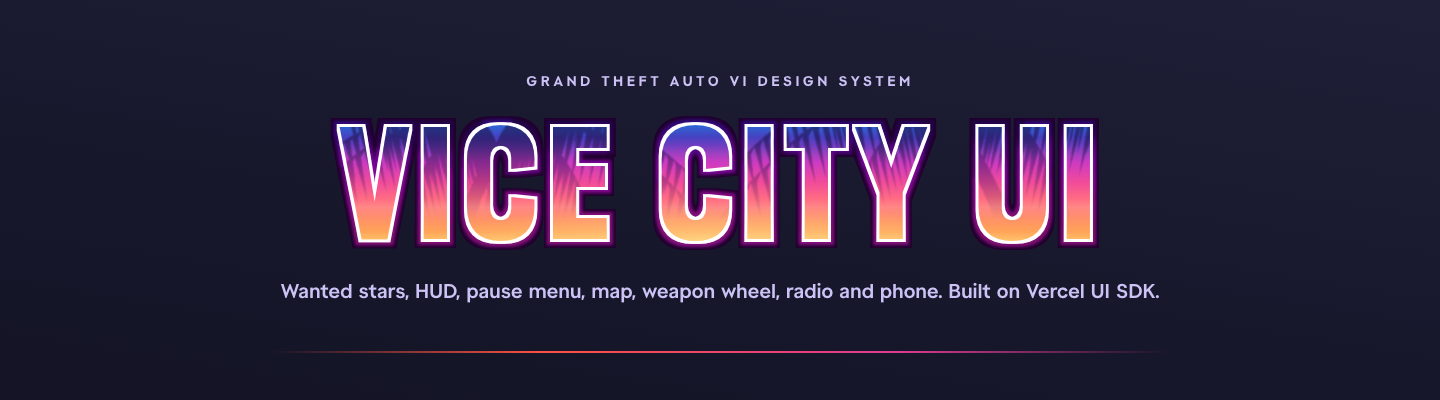
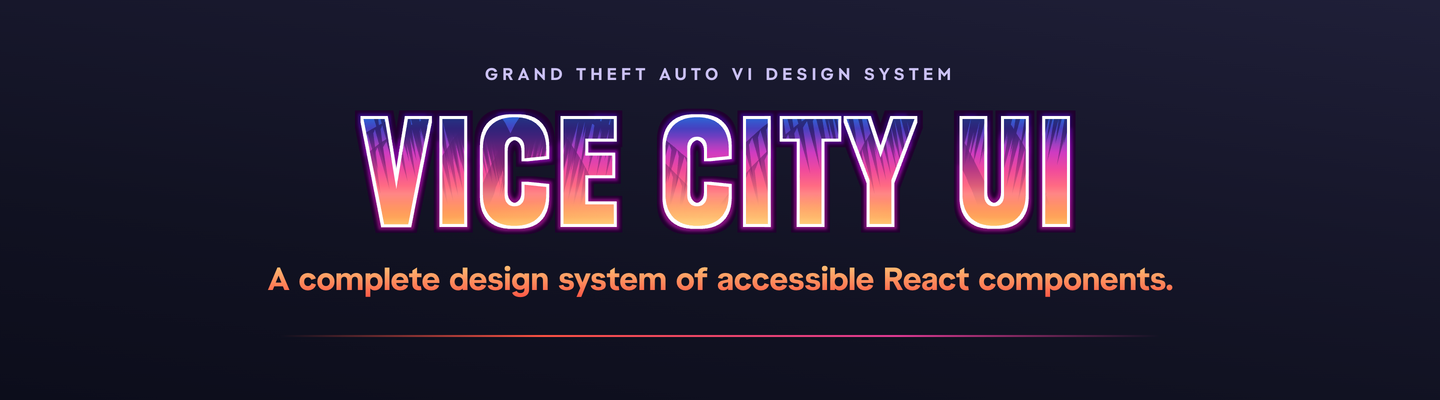
docs: present Vice City UI as a complete design system

diff --git a/src/site/home.tsx b/src/site/home.tsx
@@ -17,7 +17,7 @@ function Masthead(): ReactElement {
       <h1 className="masthead__title" id="home-title" tabIndex={-1}>
         <ViceText>Vice City UI</ViceText>
       </h1>
-      <p className="masthead__lede">The menus, HUD and phone, as accessible React components.</p>
+      <p className="masthead__lede">A complete design system of accessible React components.</p>
       <p className="masthead__intro">
         Built on Vercel UI SDK, which gives every control its keyboard, focus and ARIA. Open any of the {ENTRIES.length}{" "}
         components for its live demo.

diff --git a/index.html b/index.html
@@ -10,7 +10,7 @@
     <meta property="og:title" content="Vice City UI" />
     <meta
       property="og:description"
-      content="The menus, HUD and phone of GTA VI as accessible React components, built on Vercel UI SDK."
+      content="A complete Grand Theft Auto VI design system: accessible React components built on Vercel UI SDK."
     />
     <meta property="og:image" content="https://vice-city-ui.vercel.app/og.png" />
     <meta property="og:image:width" content="1200" />

diff --git a/README.md b/README.md
@@ -2,7 +2,7 @@
 
 ![Vice City UI: a Grand Theft Auto VI design system](.github/banner.png)
 
-A design system styled after Grand Theft Auto VI's menus and HUD: the wanted stars, pause menu, settings, weapon wheel, radio, map and phone, plus a core kit of everyday components. It's built on [Vercel UI SDK](https://ui-sdk.dev), which handles keyboard, focus and ARIA; Vice City UI handles the look.
+A complete design system styled after Grand Theft Auto VI: game UI and everyday components for React. It's built on [Vercel UI SDK](https://ui-sdk.dev), which handles keyboard, focus and ARIA; Vice City UI handles the look.
 
 Check it out here: [vice-city-ui.vercel.app](https://vice-city-ui.vercel.app)
 
